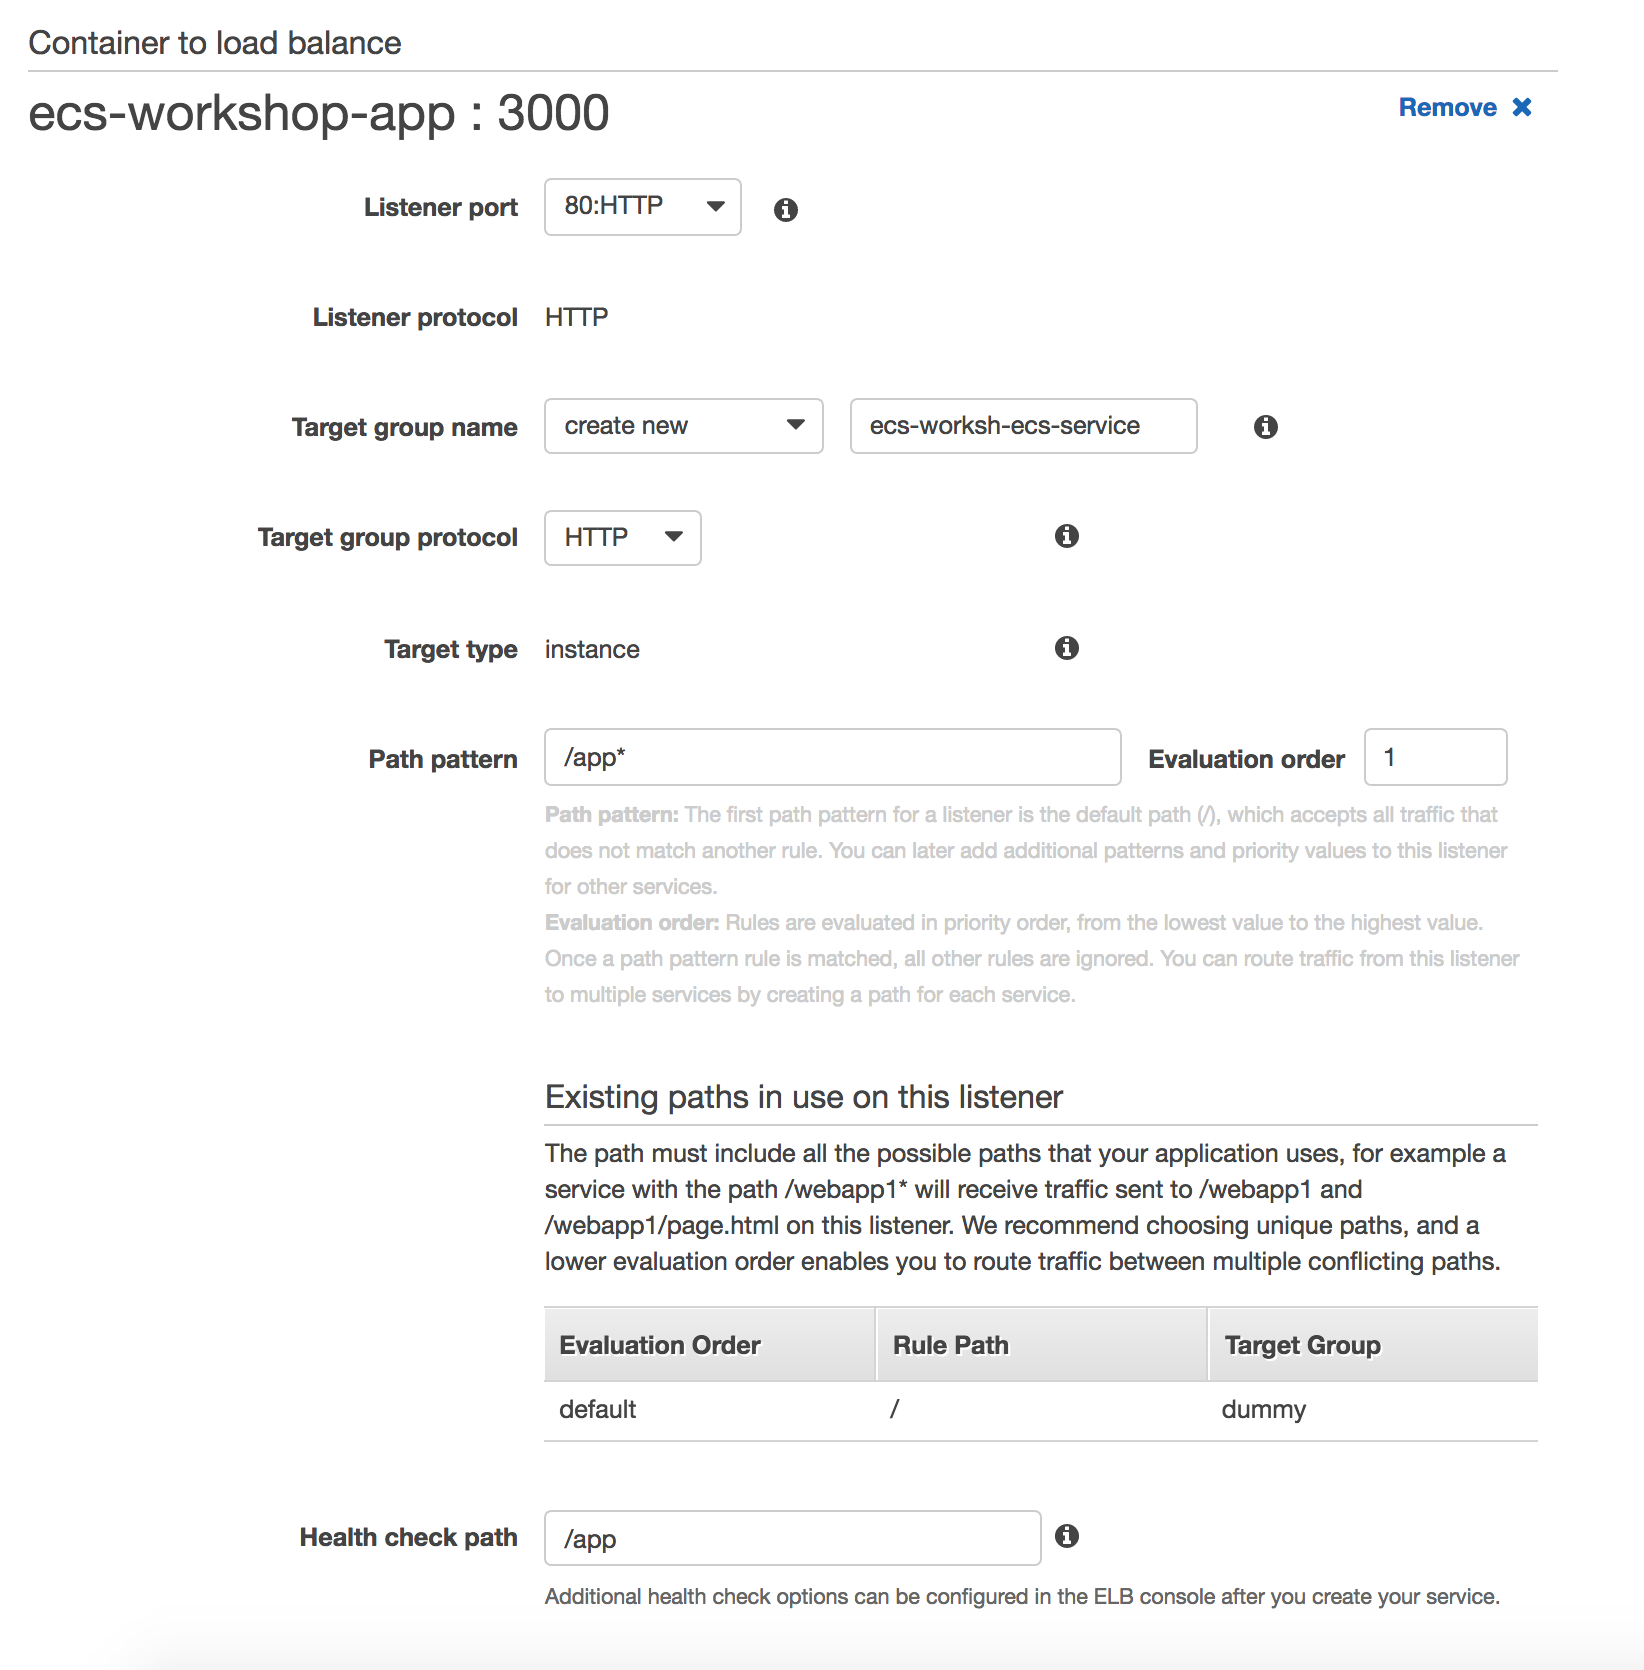
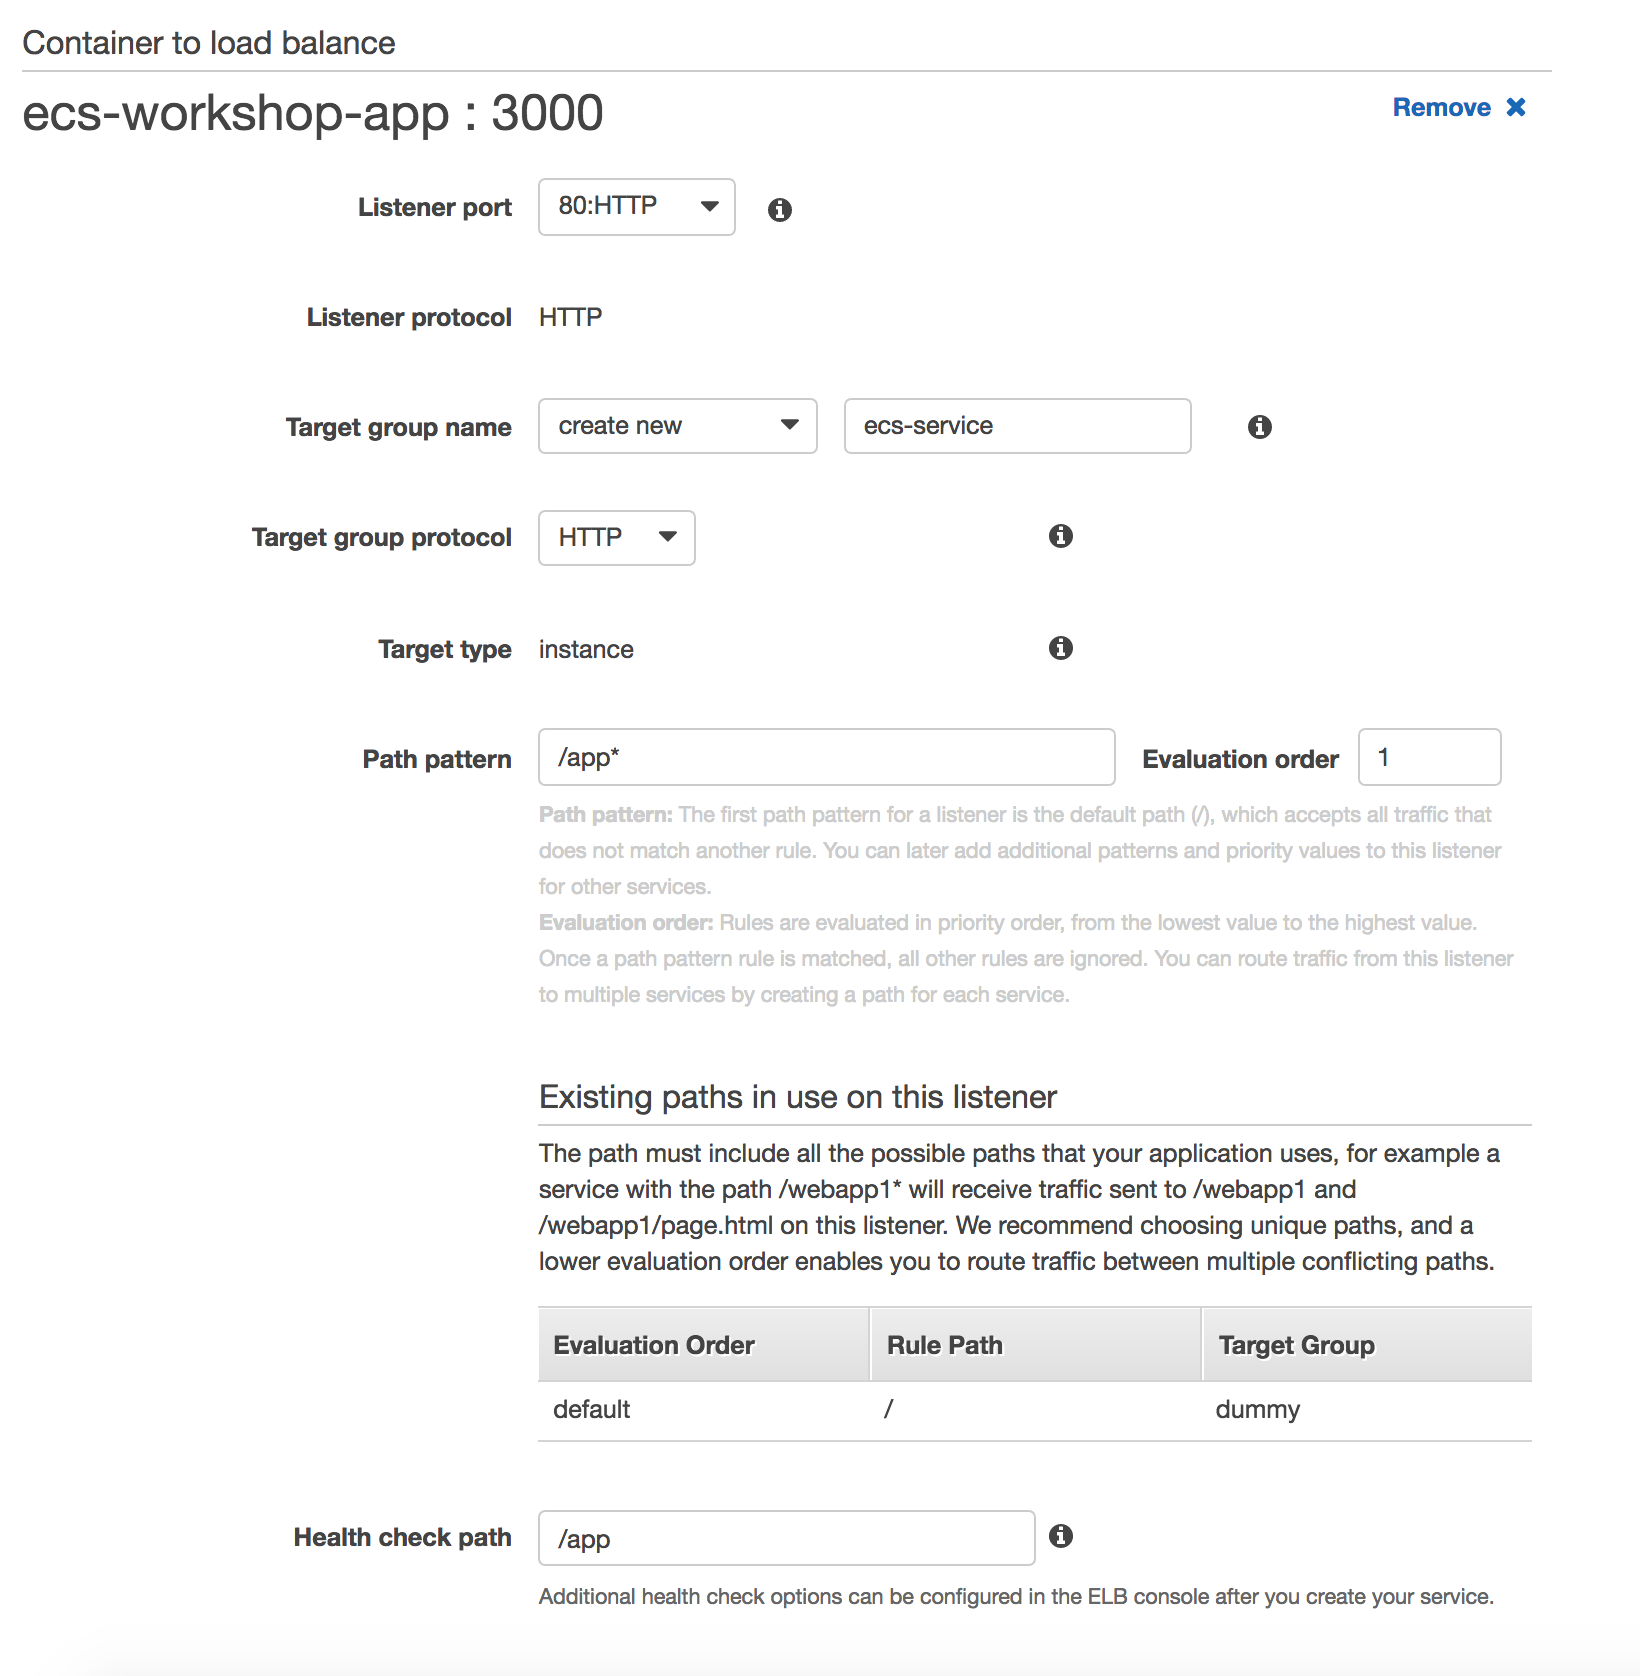
adding content

diff --git a/04-DeployEcsCluster/README.md b/04-DeployEcsCluster/README.md
@@ -10,7 +10,7 @@
 * [4. Creating the Task Definition](https://github.com/bemer/containers-on-aws-workshop/tree/master/04-DeployEcsCluster#creating-the-task-definition)
 * [5. Creating the Service](https://github.com/bemer/containers-on-aws-workshop/tree/master/04-DeployEcsCluster#creating-the-service)
 * [6. Testing our service deployments from the console and the ALB](https://github.com/bemer/containers-on-aws-workshop/tree/master/04-DeployEcsCluster#testing-our-service-deployments-from-the-console-and-the-alb)
-* [7. More in-depth logging with Cloudwatch](https://github.com/bemer/containers-on-aws-workshop/tree/master/04-DeployEcsCluster#more-in-depth-logging-with-cloudwatch)
+* [7. More in-depth logging with CloudWatch](https://github.com/bemer/containers-on-aws-workshop/tree/master/04-DeployEcsCluster#more-in-depth-logging-with-cloudwatch)
 * [8. That's a wrap!](https://github.com/bemer/containers-on-aws-workshop/tree/master/04-DeployEcsCluster#thats-a-wrap)
 
 
@@ -77,7 +77,7 @@ Name your ALB **alb-workshop** and add an HTTP listener on port 80:
 
 ![name ALB](https://github.com/bemer/containers-on-aws-workshop/blob/master/04-DeployEcsCluster/images/create_alb.png)
 
-Next, select the VPC previously created and add at the private subnet. If you have multiple VPC, and you're not sure which VPC is the correct one, you can find its ID from the VPC console.
+Next, select the VPC previously created and add at the private subnet created in the [Create VPC tutorial](https://github.com/bemer/containers-on-aws-workshop/tree/master/03-CreateVPC). If you have multiple VPC, and you're not sure which VPC is the correct one, you can find its ID from the VPC console.
 
 After adding the information about your VPC, click in **Next: Configure Security Settings**.
 
@@ -91,7 +91,7 @@ Let's now create a security group to be used by your ALB. In the *Step 3: Config
 
 Them, click in **Next: Configure Routing**.
 
-During this initial setup, we're just adding a dummy health check on `/`.  We'll add specific health checks for our ECS service endpoint when registering it with the ALB. Let's change onlye the the **Name** to `dummy`:
+During this initial setup, we're just adding a dummy health check on `/`.  We'll add specific health checks for our ECS service endpoint when registering it with the ALB. Let's change only the the **Name** to `dummy`:
 
 ![add routing](https://github.com/bemer/containers-on-aws-workshop/blob/master/04-DeployEcsCluster/images/configure_alb_routing.png)
 
@@ -208,7 +208,7 @@ Now, under `Load balancing`, select `Application Load Balancer`. Let's configure
 
 ![add to ALB](https://github.com/bemer/containers-on-aws-workshop/blob/master/04-DeployEcsCluster/images/add_container_to_alb.png)
 
-This final step allows you to configure the container with the ALB.  When we created our ALB, we only added a listener for HTTP:80.  Select this from the dropdown as the value for **Listener**.  For **Target Group Name**, enter a value that will make sense to you later, like **ecs-workshop**.  For **Path Pattern**, the value should be **`/app*`**.  This is the route that we specified in our Python application. In the **Evaluation order**, add the number `1`.
+This final step allows you to configure the container with the ALB.  When we created our ALB, we only added a listener for HTTP:80.  Select this from the dropdown as the value for **Listener**.  For **Target Group Name**, enter a value that will make sense to you later, like **ecs-service**.  For **Path Pattern**, the value should be **`/app*`**.  This is the route that we specified in our Python application. In the **Evaluation order**, add the number `1`.
 
 Finally, **Health check path**, use the value `/app`.
 
@@ -218,8 +218,6 @@ If the values look correct, click **Next Step**.
 
 Since we will not use Auto Scaling in this tutorial, in the `Set Auto Scaling` screen, just click in **Next Step** and after reviewing your configurations, click in **Create Service**.
 
-
-# Continuar daqui
 
 ## 6. Testing our service deployments from the console and the ALB
 
@@ -231,19 +229,26 @@ We can also test from the ALB itself.  To find the DNS A record for your ALB, na
 
 ![alb web test](https://github.com/bemer/containers-on-aws-workshop/blob/master/04-DeployEcsCluster/images/alb_app_response.png)
 
-You can see that the ALB routes traffic appropriately based on the path we specified when we registered the container:  `/app*/` requests go to our app service.
+You can see that the ALB routes traffic appropriately based on the path we specified when we registered the container:  `/app` requests go to our app service.
 
 
-## 7. More in-depth logging with Cloudwatch
+## 7. More in-depth logging with CloudWatch
 
-When we created our Container Definitions, we also added the awslogs driver, which sends logs to [Cloudwatch](https://aws.amazon.com/cloudwatch/).  You can see more details logs for your service by going to the Cloudwatch console, and selecting first our log group:
+When we created our Container Definitions, we also added the awslogs driver, which sends logs to the [Cloudwatch](https://aws.amazon.com/cloudwatch/). By default, when using the `awslogs`driver, all the `stdout` will be redirected to CloudWatch. Now, let's navigate to the CloudWatch Logs interface to see the logs generated by our application.
 
-![log group](https://github.com/bemer/containers-on-aws-workshop/blob/master/04-DeployEcsCluster/images/loggroup.png)
+In order to access the CloudWatch logs, access the ECS Console, navigate to the the cluster `workshop-ecs-cluster` and click in the tab `Tasks`. Here, we will see all the tasks running in our cluster. At this moment, you will need to have just one task running. In this tab, click in the task ID, under `Task`:
 
-And then choosing an individual stream:
+![task id](https://github.com/bemer/containers-on-aws-workshop/blob/master/04-DeployEcsCluster/images/task_id.png)
 
-![event streams](https://github.com/bemer/containers-on-aws-workshop/blob/master/04-DeployEcsCluster/images/event_streams.png)
+You will access a screen with all the information about the task that is running. Now, under `Containers`, expand the container `ecs-workshop-app`. You will see that under `Log Configuration` exists the option `View logs in CloudWatch`. Click in this link:
+
+![view in cloudwatch](https://github.com/bemer/containers-on-aws-workshop/blob/master/04-DeployEcsCluster/images/view_in_cloudwatch.png)
+
+You will be able to see the logs generated by your container:
+
+![container logs](https://github.com/bemer/containers-on-aws-workshop/blob/master/04-DeployEcsCluster/images/container_logs.png)
+
 
 ## 8. That's a wrap!
 
-Congratulations!  You've deployed an ECS Cluster with two working endpoints.  
+Congratulations!  You've deployed an ECS Cluster with a working endpoints.  
